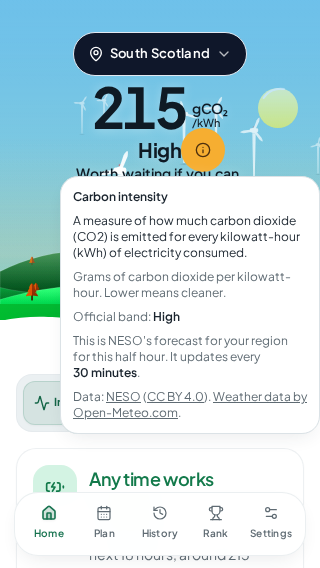
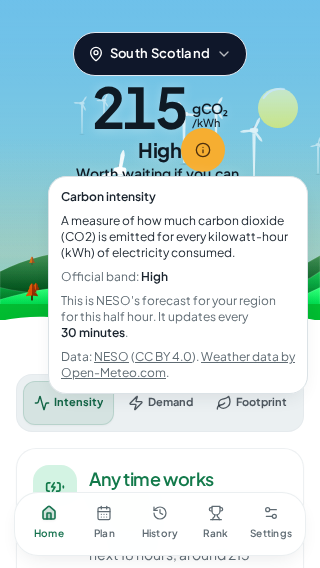
fix(hero): GB popover says NESO's figure when it is the published actual, forecast only when it is; collisionPadding 12; drop repeated gCO2 line (#233 Design review)

Changed region(s): [[0.125, 0.2993, 1.0, 0.7782], [0.5938, 0.1796, 0.625, 0.2095], [0.375, 0.2694, 0.4062, 0.2993]]

diff --git a/src/components/home/IntensityHeroOverlay.tsx b/src/components/home/IntensityHeroOverlay.tsx
@@ -41,6 +41,8 @@ interface IntensityHeroOverlayProps {
   intensity: number;
   previousIntensity: number | null | undefined;
   index: string;
+  /** The figure is NESO's published actual for this half hour, not the forecast. */
+  isActualReading?: boolean;
   generationMix: GenerationMix[] | undefined;
   isLoading: boolean;
   isBackgroundFetching: boolean;
@@ -73,6 +75,7 @@ export function IntensityHeroOverlay({
   intensity,
   previousIntensity,
   index,
+  isActualReading = false,
   generationMix,
   isLoading,
   isBackgroundFetching,
@@ -436,10 +439,12 @@ export function IntensityHeroOverlay({
                           <Info className="w-3.5 h-3.5" aria-hidden="true" />
                         </Button>
                       </PopoverTrigger>
-                      <PopoverContent className="w-[260px] p-3 text-xs bg-card border-border backdrop-blur-xl space-y-2">
+                      <PopoverContent
+                        collisionPadding={12}
+                        className="w-[260px] p-3 text-xs bg-card border-border backdrop-blur-xl space-y-2"
+                      >
                         <p className="font-semibold">Carbon intensity</p>
                         <p>{DEFINITIONS['Carbon Intensity']}</p>
-                        <p className="text-muted-foreground">{DEFINITIONS['gCO2/kWh']}</p>
                         {index && tone !== 'plain' && (
                           <p className="text-muted-foreground">
                             Official band:{' '}
@@ -449,8 +454,11 @@ export function IntensityHeroOverlay({
                           </p>
                         )}
                         <p className="text-muted-foreground">
-                          This is NESO&apos;s forecast for{' '}
-                          {isRegionalReading ? 'your region' : 'Great Britain'} for this half hour.
+                          {isRegionalReading
+                            ? "This is NESO's forecast for your region for this half hour."
+                            : isActualReading
+                              ? "This is NESO's figure for Great Britain for this half hour."
+                              : "This is NESO's forecast for Great Britain for this half hour."}{' '}
                           It updates every{' '}
                           <span className="font-semibold text-foreground">30 minutes</span>.
                         </p>

diff --git a/e2e/bh139-shots.spec.ts b/e2e/bh139-shots.spec.ts
@@ -17,8 +17,24 @@ const PHONES = [
   { width: 320, height: 568 },
 ];
 const CELLS = [
-  { slug: 'region-215g-popover', postcode: 'EH1 1YZ', text: 'your region' },
-  { slug: 'gb-215g-popover', postcode: '', text: 'Great Britain' },
+  {
+    slug: 'region-215g-popover',
+    postcode: 'EH1 1YZ',
+    actual: null,
+    text: "This is NESO's forecast for your region for this half hour.",
+  },
+  {
+    slug: 'gb-forecast-215g-popover',
+    postcode: '',
+    actual: null,
+    text: "This is NESO's forecast for Great Britain for this half hour.",
+  },
+  {
+    slug: 'gb-actual-215g-popover',
+    postcode: '',
+    actual: 215,
+    text: "This is NESO's figure for Great Britain for this half hour.",
+  },
 ];
 
 async function settle(page: Page) {
@@ -32,7 +48,12 @@ for (const vp of PHONES) {
     test(`${cell.slug} ${vp.width}x${vp.height}`, async ({ page, context }) => {
       await page.setViewportSize(vp);
       await pinClocks(page, AT);
-      await installMocks(context, { intensity: 215, index: 'high', flatSeries: true });
+      await installMocks(context, {
+        intensity: 215,
+        index: 'high',
+        flatSeries: true,
+        actual: cell.actual,
+      });
       await context.addInitScript(seedStorage({ postcode: cell.postcode }));
       await context.addInitScript(() =>
         localStorage.setItem('gridgreen-scene-preference', 'countryside'),
@@ -47,7 +68,12 @@ for (const vp of PHONES) {
       });
       await page.getByRole('button', { name: 'What is carbon intensity?' }).click();
       await page.clock.runFor(800);
-      await expect(page.getByText(`NESO's forecast for ${cell.text}`)).toBeVisible();
+      await expect(page.getByText(cell.text)).toBeVisible();
+      await expect(page.getByText('Lower means cleaner')).toHaveCount(0);
+      // collisionPadding: the popover clears both screen edges by 12px.
+      const box = await page.locator('[data-radix-popper-content-wrapper]').last().boundingBox();
+      expect(box!.x).toBeGreaterThanOrEqual(12);
+      expect(box!.x + box!.width).toBeLessThanOrEqual(vp.width - 12);
       await page.screenshot({ path: `${OUT}/${cell.slug}-${vp.width}x${vp.height}.png` });
     });
   }

diff --git a/src/hooks/useCarbonData.ts b/src/hooks/useCarbonData.ts
@@ -10,6 +10,7 @@ import {
   getCurrentIntensity,
   getAllRegions,
   pickLiveIntensity,
+  isActualIntensity,
   RegionalData,
   RegionListItem,
   ForecastData,
@@ -300,6 +301,10 @@ export function useCarbonData(postcode: string) {
   const usingNationalFallback = !!regionalData && regionalLive === null && nationalLive !== null;
   const liveIntensity = regionalLive ?? nationalLive;
   const hasReading = liveIntensity !== null;
+  // Whether the figure on screen is NESO's published actual (else the forecast).
+  const isActualReading = isActualIntensity(
+    regionalLive !== null ? regionalData?.intensity : nationalQuery.data?.intensity,
+  );
   const intensity = hasReading ? liveIntensity : 0;
   const index =
     (usingNationalFallback ? undefined : regionalData?.intensity?.index) ??
@@ -372,6 +377,8 @@ export function useCarbonData(postcode: string) {
     intensity,
     /** False when `intensity` is only the 0 placeholder (no real reading yet). */
     hasReading,
+    /** True when the figure shown is NESO's published actual, not the forecast. */
+    isActualReading,
     previousIntensity,
     index,
     region,

diff --git a/src/lib/carbonApi.isActual.test.ts b/src/lib/carbonApi.isActual.test.ts
@@ -1,0 +1,19 @@
+import { describe, expect, it } from 'vitest';
+import { isActualIntensity, pickLiveIntensity } from './carbonApi';
+
+describe('isActualIntensity (#233 popover wording)', () => {
+  it('is true only when NESO has published an actual', () => {
+    expect(isActualIntensity({ forecast: 200, actual: 215 })).toBe(true);
+    expect(isActualIntensity({ forecast: 200, actual: 0 })).toBe(true);
+    expect(isActualIntensity({ forecast: 200, actual: null })).toBe(false);
+    expect(isActualIntensity({ forecast: 200 })).toBe(false);
+    expect(isActualIntensity(undefined)).toBe(false);
+  });
+
+  it('agrees with the figure pickLiveIntensity shows', () => {
+    const r = { forecast: 200, actual: 215 };
+    expect(pickLiveIntensity(r)).toBe(r.actual);
+    const f = { forecast: 200, actual: null };
+    expect(pickLiveIntensity(f)).toBe(f.forecast);
+  });
+});

diff --git a/src/lib/carbonApi.ts b/src/lib/carbonApi.ts
@@ -69,6 +69,14 @@ export function actualSeriesLabel(items: Pick<ForecastData, 'intensity'>[]): 'Ac
  * otherwise use `forecast`. Regional endpoints usually omit actuals, so this
  * mostly improves the national view without changing regional behaviour.
  */
+/** True when pickLiveIntensity would return NESO's published actual, not the forecast. */
+export function isActualIntensity(
+  intensity: { forecast?: number | null; actual?: number | null } | null | undefined,
+): boolean {
+  const a = intensity?.actual;
+  return typeof a === 'number' && Number.isFinite(a) && a >= 0;
+}
+
 export function pickLiveIntensity(
   intensity:
     | {

diff --git a/src/pages/Index.tsx b/src/pages/Index.tsx
@@ -112,6 +112,7 @@ const Index = () => {
     offGridArea: offGrid,
     isError,
     hasReading,
+    isActualReading,
     error,
     refetch,
     getNextUpdate,
@@ -272,6 +273,7 @@ const Index = () => {
               intensity={intensity}
               previousIntensity={previousIntensity}
               index={index}
+              isActualReading={isActualReading}
               generationMix={generationMix}
               isLoading={isLoading}
               isBackgroundFetching={isBackgroundFetching}
